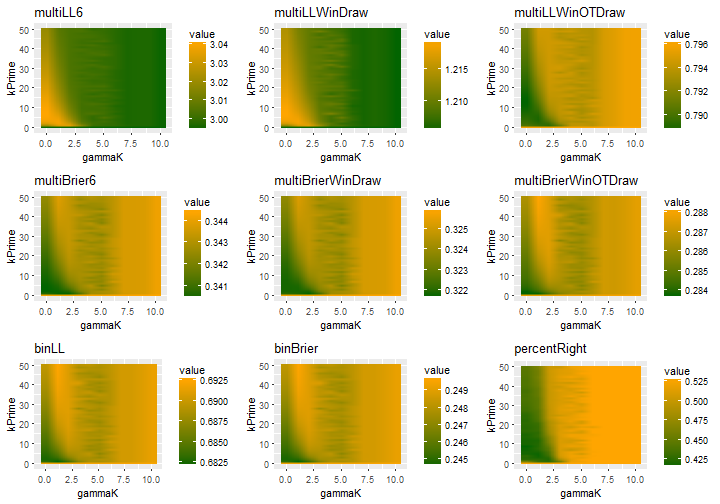
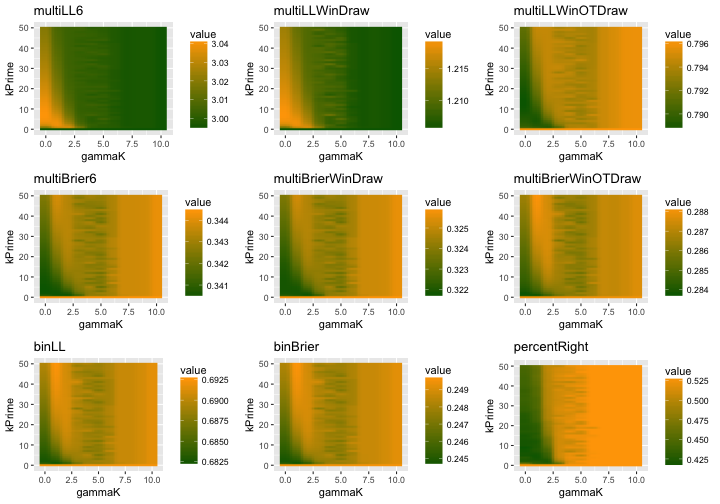
Updated parameters

Changed region(s): [[0.0, 0.0, 1.0, 1.0]]

diff --git a/_posts/2017-01-18-optimizing_elo_parameters.md b/_posts/2017-01-18-optimizing_elo_parameters.md
@@ -40,3 +40,23 @@ The last row are the scenarios pared down to predictions of win/loss. Log loss o
 Sometimes, though, these things look reversed, such as the better performance of the Percent Right plot at high gammaK and kPrime, but the poorer performance there for all the Brier results. If I can solve that, I'll update this post.
  
 At the end, though, I don't see this as being that useful. Being only a few points better at predicting game results than a coinflip is not a selling point. But, maybe the value is in season predicting? I'll look at some of that in the future. 
+ 
+*Update*
+But first, I've come to realize that I was overly-complicated in generating predictions for the winning team. Recall that the original ELO formula contains a predictive equation for the home team's chances $P_home$:
+ 
+$$P_home = 1/(1+10^(R_away - R_home))$$
+ 
+where $R_home$ is the home team ranking, and $R_away$ is the away ranking. 
+ 
+Using this, I've re-run the optimization, and achieved the following results:
+ 
+
+ 
+
+{% highlight r %}
+grid.arrange(loglossplot, brierplot, percentplot, ncol=3, nrow=1)
+{% endhighlight %}
+
+![plot of chunk multiplot_scores2](/images/multiplot_scores2-1.png)
+ 
+But, after all that, we can look and see that this isn't really an improvement. Oh well.
